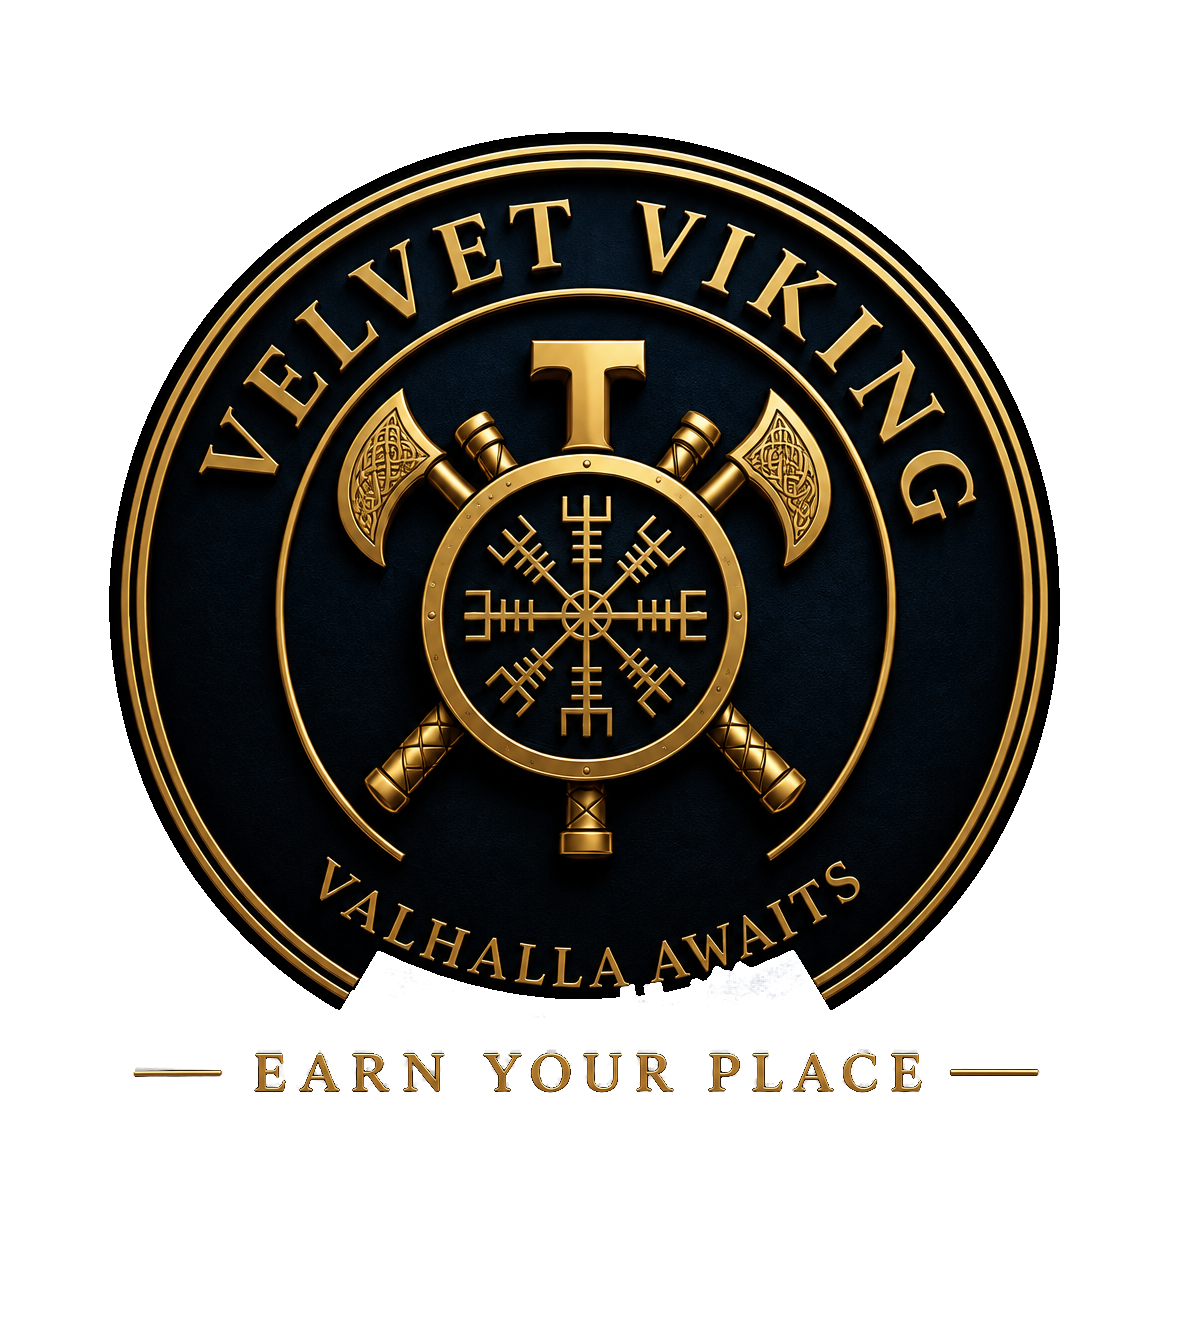
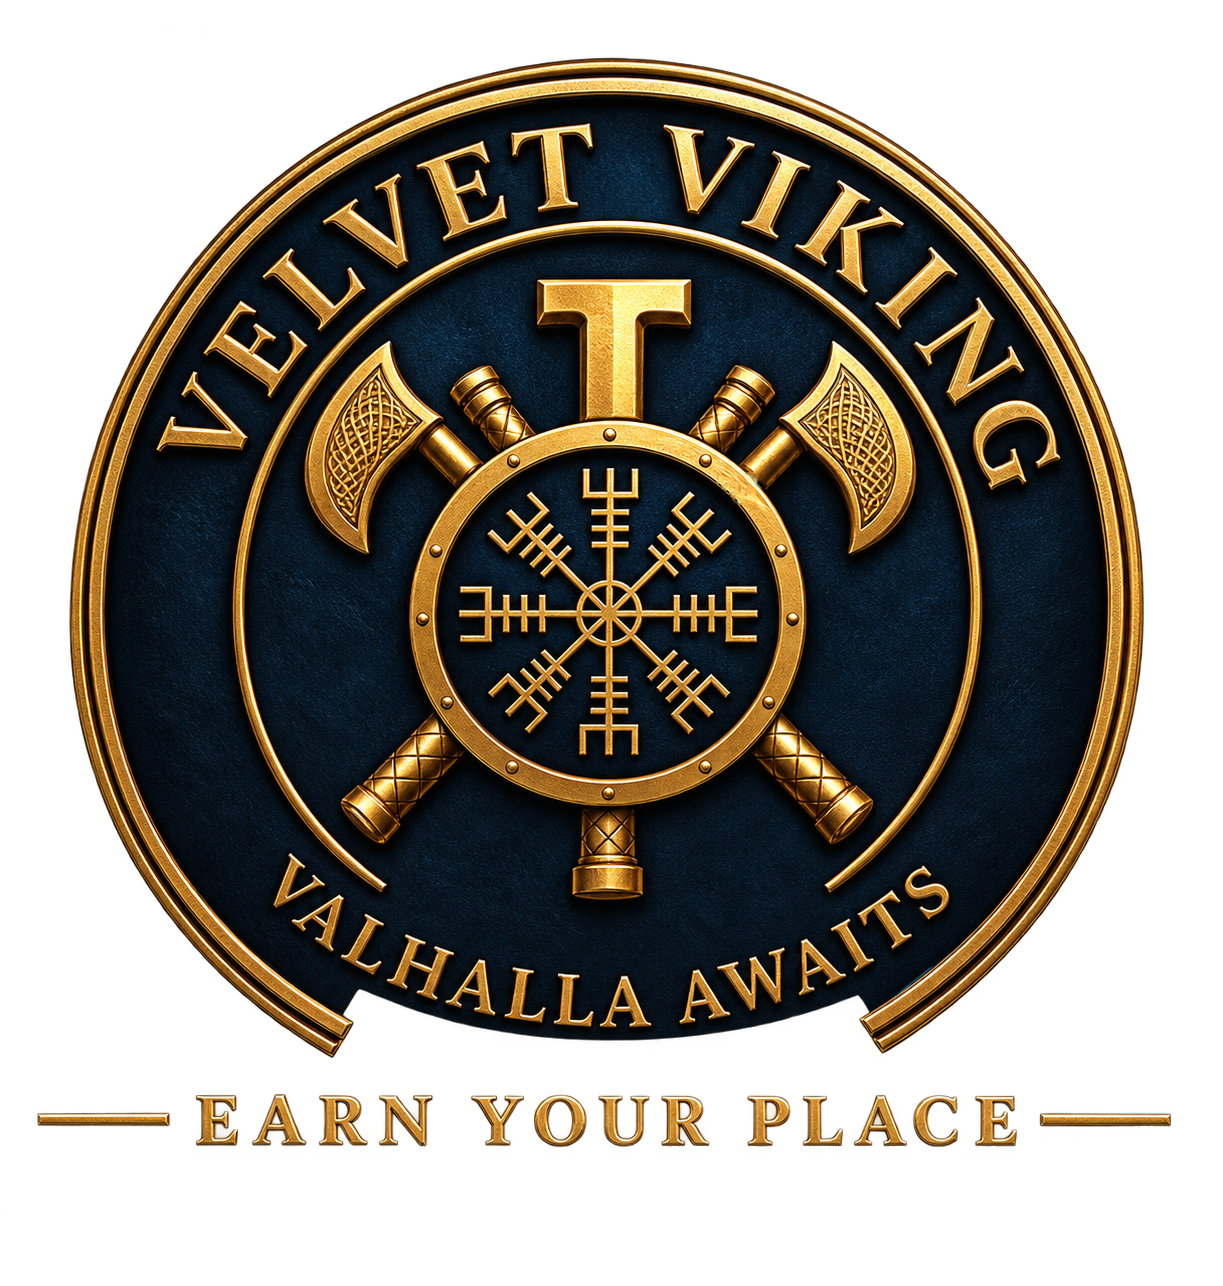
Adopt the approved cleaned crest as the canonical production asset
Replaces the crest used everywhere Crest.tsx renders it (hero, header,
mobile nav, philosophy page) with the client-approved, cleaned transparent
PNG: the low-alpha red fringe pixels and the shield-rim blemish were
removed, artwork/proportions/colors/typography/transparency otherwise
untouched (see task history).

Favicon and apple-touch-icon are deliberately NOT switched to this file --
split out to a preserved velvet-viking-icon-source.png (the pre-swap
asset) since the full detailed crest is known to turn illegible below
~96px and that needs a dedicated small-size review before changing.
Open Graph/Twitter social images do move to the new crest, since those
render large.

No display-size change: measured the new file's ring-to-canvas ratio
against the previous production asset -- it's already ~16% larger via
object-contain at a fixed container size, not smaller, so no compensating
CSS increase was applied (see task report).

diff --git a/src/app/layout.tsx b/src/app/layout.tsx
@@ -53,9 +53,14 @@ export const metadata: Metadata = {
     description: "Valhalla Awaits. Earn Your Place.",
     images: ["/brand/velvet-viking-crest.png"],
   },
+  // Deliberately NOT the same file as openGraph/twitter images above: favicon and
+  // apple-touch-icon render very small (browser tab, home-screen icon), where the
+  // full detailed crest is known to turn illegible below ~96px. Held back on the
+  // pre-swap asset pending a dedicated small-size review — see brand crest notes
+  // in README.md.
   icons: {
-    icon: "/brand/velvet-viking-crest.png",
-    apple: "/brand/velvet-viking-crest.png",
+    icon: "/brand/velvet-viking-icon-source.png",
+    apple: "/brand/velvet-viking-icon-source.png",
   },
 };
 

diff --git a/README.md b/README.md
@@ -44,28 +44,31 @@ inside components.
 ## Brand crest
 
 `public/brand/velvet-viking-crest.png` is the single canonical Velvet Viking
-crest asset — the only crest file in this repo, referenced everywhere
-(hero, header, footer, favicon, Open Graph/social imagery) through one
-component, `src/components/ui/Crest.tsx`. Reproduce it as-is per brand
-guidance — composition, wording and the gold/navy identity are not to be
-altered. The PNG has a transparent background (only the circular gold/navy
-crest and the "EARN YOUR PLACE" wordmark are opaque) so it can be dropped
-onto light or dark sections, merchandise, and third-party surfaces without
-a black background box; keep any future master in that transparent form.
-Only a raster master exists today; because there's a single reference
-point, a professionally mastered SVG can replace it later as a one-line
-change, without a page redesign.
+crest asset — the master used everywhere the full crest appears (hero,
+header, mobile nav, philosophy page, Open Graph/social imagery) through one
+component, `src/components/ui/Crest.tsx`. This file is identical to the
+`assets/velvet-viking-crest.png` master in the Valhalla app repo
+(`velvet-viking-valhalla-2`) — the two must be kept in sync; there must not
+be visually different versions of the full crest across the two products.
+Reproduce it as-is per brand guidance — composition, wording and the
+gold/navy identity are not to be altered. The PNG has a transparent
+background (only the circular gold/navy crest, "VALHALLA AWAITS", "EARN
+YOUR PLACE" and its two flanking gold lines are opaque) so it can be
+dropped onto light or dark sections, merchandise, and third-party surfaces
+without a black background box; keep any future master in that transparent
+form.
 
-`public/brand/experimental-svg/` holds a first-pass genuine vector
-reconstruction (`velvet-viking-crest-master.svg`, full detail; and
-`velvet-viking-mark-simple.svg`, a reduced mark for favicon/small-UI sizes
-where the full crest turns to mush below ~96px). Both are real paths/strokes
-with gradients, not a traced or embedded bitmap. **Neither is wired into
-the site and neither should be treated as canonical** — side-by-side against
-the PNG they read as a clean, flatter, simplified interpretation, not a
-faithful reproduction of the photoreal metal/engraving in the raster
-master. Keep the PNG as the production asset until a design-approved SVG
-replaces this folder's contents.
+`public/brand/velvet-viking-icon-source.png` is a **separate, deliberately
+older** asset used only for `icons.icon` / `icons.apple` in
+`src/app/layout.tsx` (browser favicon, iOS home-screen icon). It is held
+back from the current crest master because the full detailed crest is
+known to turn illegible below ~96px — see the small-icon comparison
+referenced in the brand-asset task history before replacing it.
+
+`public/brand/experimental-svg/` holds a rejected first-pass vector
+reconstruction. **Do not use it anywhere or treat it as a starting point.**
+The canonical crest is the raster PNG above; kept only as prior-art, not as
+an active asset.
 
 **Canonical wording** (do not add to or remove from this without an explicit
 brand decision):
